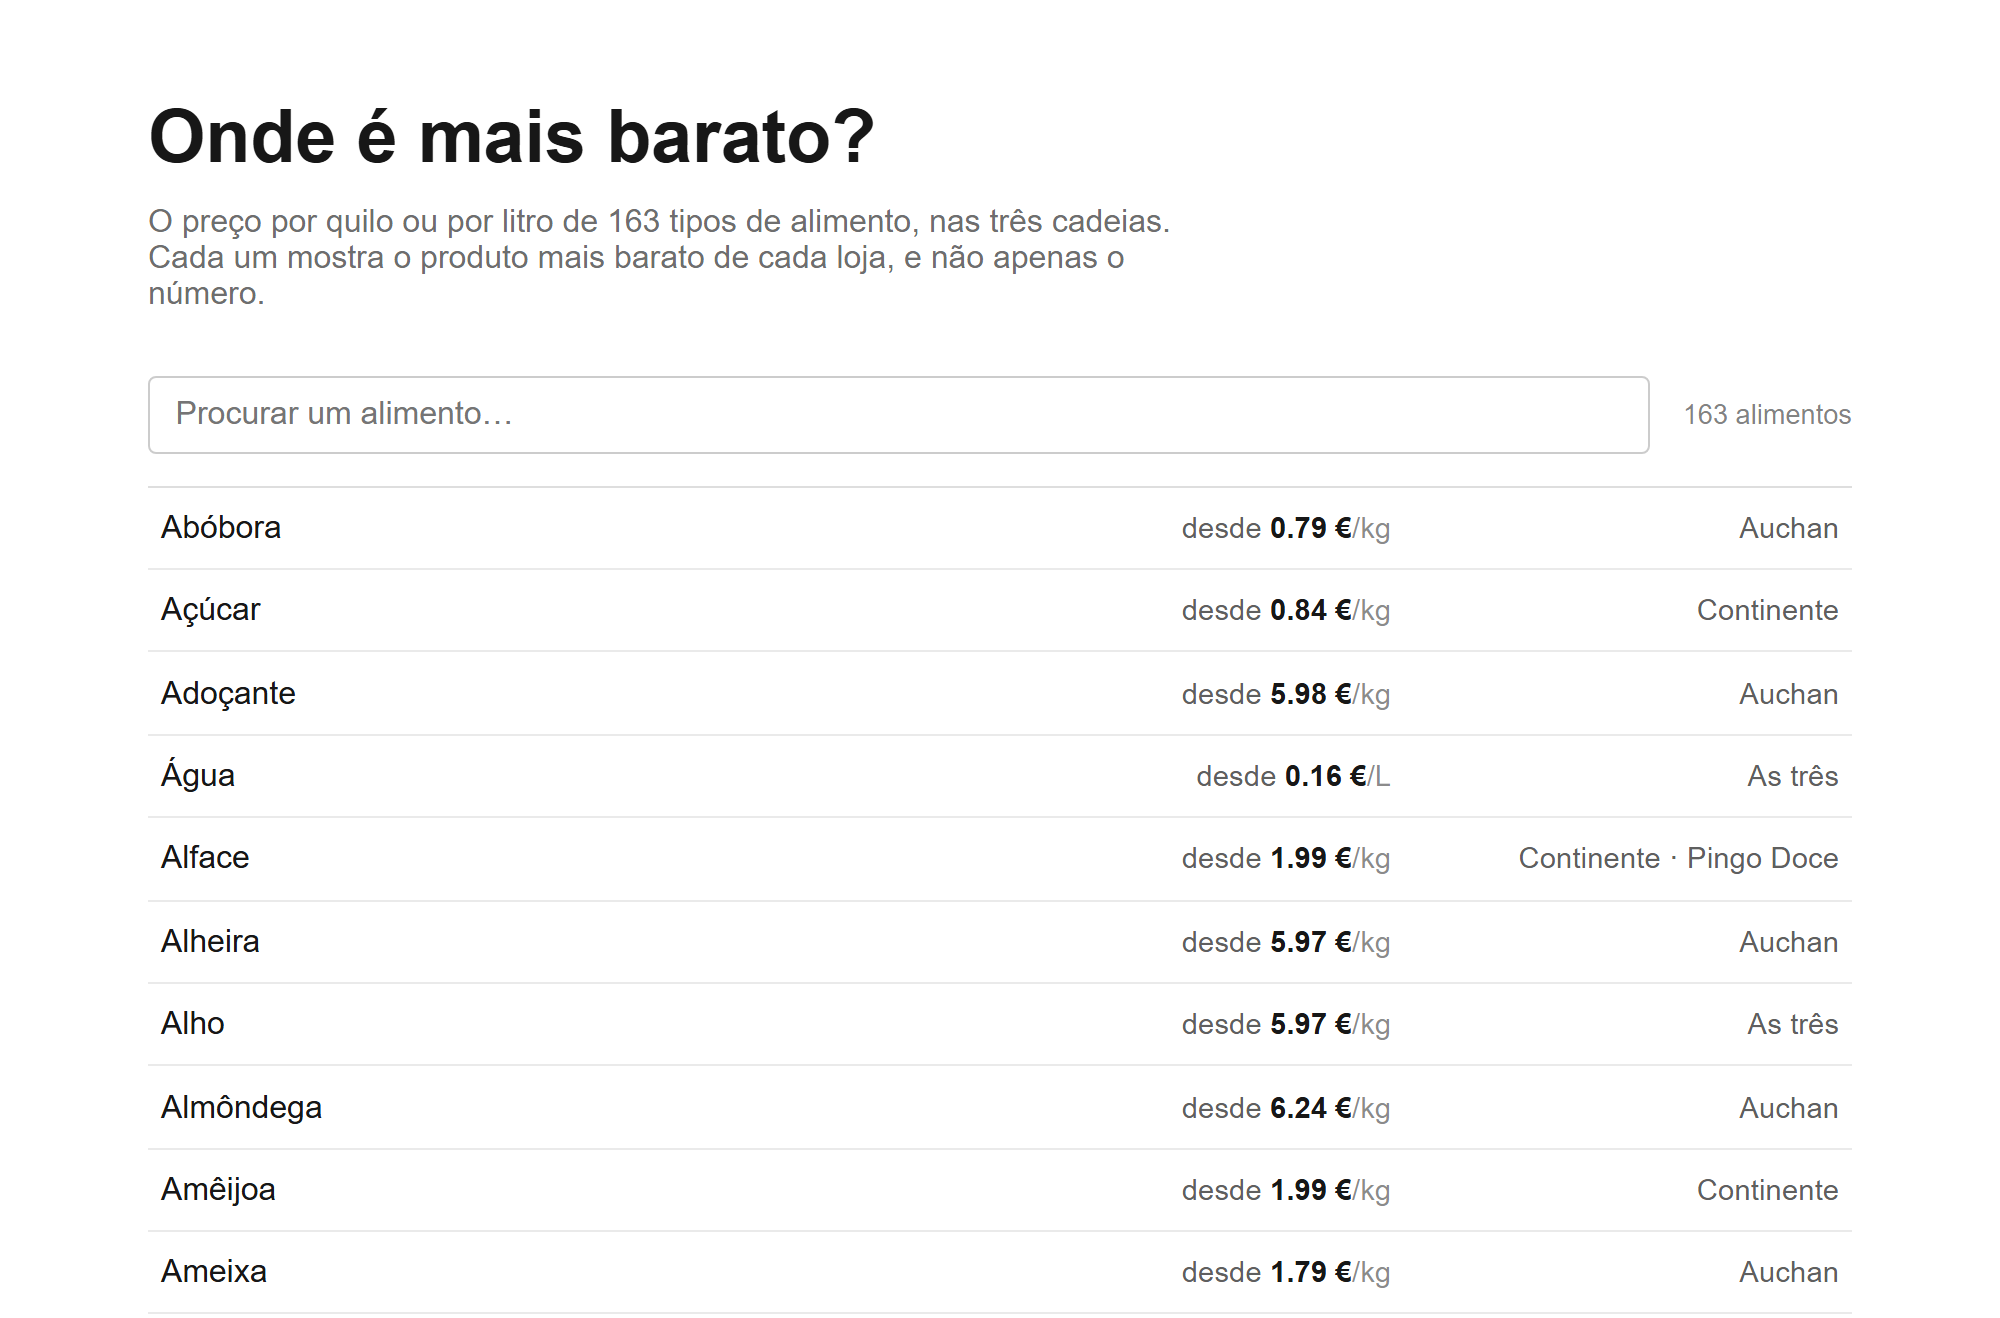
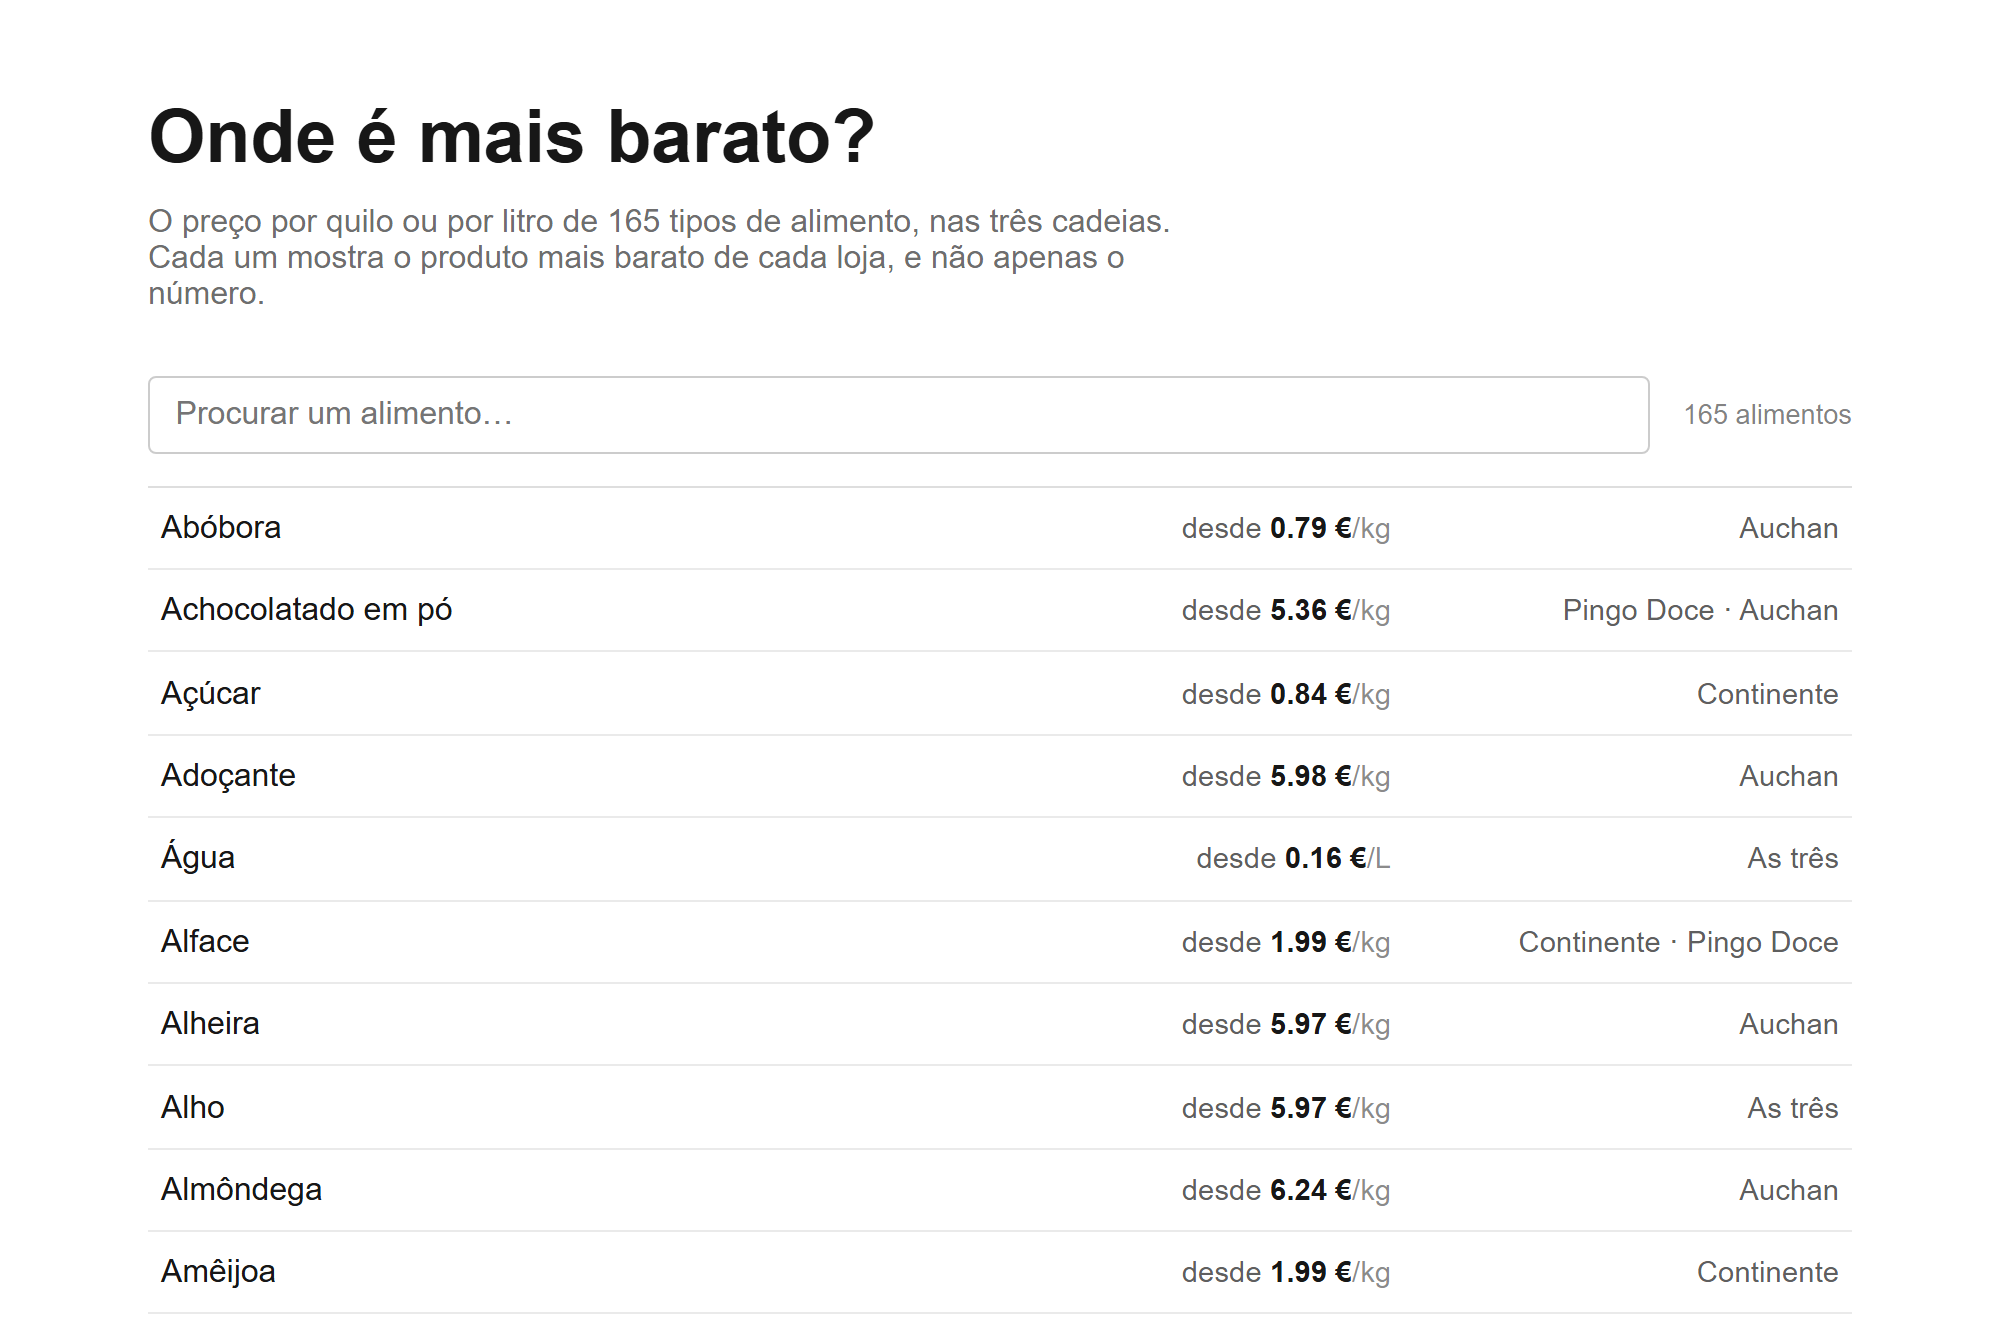
Separate chocolate powders, clean up ready meals, and stop confirming lactose-free milk as regular
- Chocolate drink powder ("achocolatado") and pure cocoa powder ("cacau em
  pó") are their own foods: about 80 powders were filed as chocolate, and
  drink powder at EUR 5.36/kg was the cheapest "chocolate". Bakery pastries
  and hot-chocolate mixes are out of chocolate too.
- Ready meals no longer include the ingredients sharing their shelf
  (cornmeal at EUR 2.01/kg was the cheapest "ready meal"), nor plain tofu,
  seitan or tempeh.
- The matcher no longer confirms a same-brand, same-size pair whose names
  differ on lactose, organic, zero, light and similar words: Continente's
  regular Mimosa milk had been confirmed as Auchan's lactose-free one. 31 of
  150 name-only pairs go to review; groups 944 to 922.
- README figures and the food-list screenshot updated.

diff --git a/data/food-types.ts b/data/food-types.ts
@@ -329,10 +329,28 @@ export const FOOD_TYPES: readonly FoodType[] = [
   // "tablete": Auchan names most chocolate bars by the format alone, as in
   // "TABLETE LINDT EXCELLENCE 70%". They used to reach chocolate only through
   // their shelf, which no longer decides when it names several foods.
+  // Powders are not chocolate bars, and listed BEFORE chocolate so they claim
+  // first: the first type in array order whose rules accept a name wins. About
+  // 120 powders were filed as chocolate, and drink powder at EUR 5.36/kg was
+  // the cheapest "chocolate". Pure cocoa and the sweetened drink powder are
+  // different products again, so each gets its own ranking. 17 October 2026.
+  //
+  // Reached ONLY through the word "chocolate" (in the name or on the shelf).
+  // Claiming "achocolatado" or "cacau" as words of their own made shelves
+  // like "chocolates-e-achocolatados" name two foods, and a two-food shelf
+  // decides nothing - 135 chocolate bars lost their food in the preview.
+  // They claim "tablete" too, for the same reason: "Tabletes de Chocolate"
+  // must name ONE set of foods, so both words need the same claimants.
+  { id: "cacau", label: "Cacau em pó", unit: "kg", heads: ["chocolate", "tablete"],
+    require: /(?=.*\bcacau\b)(?=.*\bpo\b)/i, exclude: /chocolate|achocolatad|soluvel|cobert|amendo/i },
+  { id: "achocolatado", label: "Achocolatado em pó", unit: "kg", heads: ["chocolate", "tablete"],
+    require: /achocolatad|soluvel|\bem po\b|\bpo\b|ovomaltine|fortificante|milk-mix|magic milk|granulos|nesquik|cola cao|toddy|chocolate quente/i,
+    exclude: /\btab(e)?lete\b|bombo|snack|cobert|amendo|pepita|\bbarras?\b/i },
   { id: "chocolate", label: "Chocolate", unit: "kg", heads: ["chocolate", "tablete"],
     // Sugared almonds ("tipo francês", "lisas cores") sit on the chocolate
     // shelf but are sugar-coated, not chocolate.
-    exclude: /^(?!.*(?:chocolat|cacau|choco\b)).*(?:rebucado|\bchupa|\bgoma|caramelo|torrao|nougat|marshmallow|alcacuz|tipo frances|\blisas? cores\b)/i },
+    // And a pastry from the bakery counter is not chocolate either.
+    exclude: /^(?!.*(?:chocolat|cacau|choco\b)).*(?:rebucado|\bchupa|\bgoma|caramelo|torrao|nougat|marshmallow|alcacuz|tipo frances|\blisas? cores\b)|\bsupremas?\b|nossa pastelaria/i },
   { id: "arroz", label: "Arroz", unit: "kg", heads: ["arroz"], exclude: /arroz doce/i },
   { id: "gelatina", label: "Gelatina", unit: "kg", heads: ["gelatina"] },
   { id: "farinha", label: "Farinha", unit: "kg", heads: ["farinha"] },
@@ -422,7 +440,15 @@ export const FOOD_TYPES: readonly FoodType[] = [
   { id: "gelado", label: "Gelado", unit: "l", heads: ["gelado"] },
   { id: "pizza", label: "Pizza", unit: "kg", heads: ["pizza"] },
   { id: "lasanha", label: "Lasanha", unit: "kg", heads: ["lasanha"] },
-  { id: "refeicao", label: "Refeição pronta", unit: "kg", heads: ["refeicao"] },
+  // A dish, not an ingredient that shares its shelf. Auchan's "preparados e
+  // refeições rápidas" ("mixes and quick meals") also holds cornmeal, maize,
+  // cassava, bulgur, palm hearts, cake mixes, sauerkraut and kimchi, and fubá
+  // (cornmeal) at EUR 2.01/kg was the cheapest "ready meal". Plain tofu,
+  // seitan, tempeh and riced vegetables are ingredients too - but a name that
+  // only CONTAINS one of them ("LUNCH BOWL BULGUR", "BOLONHESA SEITAN",
+  // "TOPOKKI ... KIMCHI") can still be a meal. 17 October 2026.
+  { id: "refeicao", label: "Refeição pronta", unit: "kg", heads: ["refeicao"],
+    exclude: /\b(fuba|flocao|canjic\w*|canjiquinha|xerem|sagu|farofa|mandioca|palmito|chucrute|jalapeno|tofu|tempeh|riced|veggie rice)\b|^(bulgur|seitan|kimchi)\b|trigo para kibe|preparados? (koala|duncan|mississippi)|mistura preparada|base (de pinsa|sopa)/i },
   { id: "wrap", label: "Wrap", unit: "kg", heads: ["wrap"] },
   { id: "folhado", label: "Folhado", unit: "kg", heads: ["folhado"] },
   { id: "rissol", label: "Rissol", unit: "kg", heads: ["rissoi", "rissol"] },

diff --git a/src/scripts/verify-matching.ts b/src/scripts/verify-matching.ts
@@ -1,7 +1,7 @@
 import { prisma } from "../lib/db";
 import { classifyFoodType, isFoodSection } from "../lib/food-types";
 import { buildGroups, sizeSpreadOk, OVERSIZE_FACTOR, type GroupLink, type GroupMemberInput } from "../lib/grouping";
-import { auchanTileSize, matchesTerm, parseSize, reconcileTileSize, SOLD_PER_KG, stripAccents } from "../lib/matching";
+import { auchanTileSize, matchesTerm, parseSize, qualifierMismatch, reconcileTileSize, SOLD_PER_KG, stripAccents } from "../lib/matching";
 import { enrichment } from "../scrapers/crawl/persist";
 import {
   categoryPathFromUrl,
@@ -1047,6 +1047,33 @@ function verifyFoodTypes(): number {
   check("chocolate hazelnuts are not hazelnuts",
     classifyFoodType("Avelãs Cobertas com Chocolate de Leite", "PINGO_DOCE", easter) !== "avela");
   is("Miolo de Avelã Torrada Continente", "CONTINENTE", "Frescos/Frutas/Frutos Secos, Desidratados e Sementes", "avela");
+
+  // Powders are not chocolate bars, and a two-food shelf must not appear by accident.
+  const chocShelf = "alimentação/mercearia/chocolates-e-achocolatados/achocolatados";
+  is("ACHOCOLATADO NESQUIK SACO 1KG", "AUCHAN", chocShelf, "achocolatado");
+  is("Bebida de Chocolate Solúvel Cola Cao", "CONTINENTE", "Mercearia/Café, Chá e Solúveis/Chocolate Solúvel", "achocolatado");
+  is("Cacau Magro em Pó Continente Equilíbrio", "CONTINENTE", "Mercearia/Açúcar e Sobremesas/Cacau e Chocolates de Culinária", "cacau");
+  is("PREPARADO LACASA CHOCOLATE QUENTE 350G", "AUCHAN", "alimentação/mercearia/chocolates-e-achocolatados/achocolatados", "achocolatado");
+  check("a bakery pastry is not chocolate",
+    classifyFoodType("Supremas de Chocolate Da Nossa Pastelaria", "CONTINENTE", "Mercearia/Chocolate, Gomas e Rebuçados/Chocolates") !== "chocolate");
+  is("Barrinhas de Chocolate Kinder", "PINGO_DOCE", "Bolachas, Cereais e Guloseimas/Chocolates e Guloseimas/Tabletes de Chocolate", "chocolate");
+  is("CHOCOLATE NEGRO AUCHAN 70% CACAU E COM BAIXO TEOR DE AÇÚCAR 100G", "AUCHAN",
+    "alimentação/mercearia/chocolates-e-achocolatados/tablete-de-chocolate", "chocolate");
+  // Ready meals are dishes, not the ingredients on the same shelf.
+  const quick = "alimentação/sabores-do-mundo/cozinha-brasileira/preparados-e-refeições-rápidas";
+  check("cornmeal is not a ready meal", classifyFoodType("FUBÁ MIMOSO DA TERRINHA 1KG", "AUCHAN", quick) !== "refeicao");
+  check("nor is plain tofu",
+    classifyFoodType("Tofu Natural Joya", "CONTINENTE", "Frescos/Refeições Práticas/Vegetariano") !== "refeicao");
+  is("BOLONHESA SEITAN NOBRE VEGALIA 420G", "AUCHAN",
+    "alimentação/mercearia/refeições,-sopas-e-puré/refeições-pré-preparadas", "refeicao");
+
+  // Same brand and size, different product: the matcher must not confirm these.
+  check("lactose-free milk is not regular milk",
+    qualifierMismatch("Leite UHT Meio Gordo Mimosa", "LEITE MIMOSA UHT ESPECIAL 0% LACTOSE MEIO GORDO 6X1L") === "lactose");
+  check("nor organic against regular",
+    qualifierMismatch("Massa Fusilli Rummo", "MASSA RUMMO FUSILLI BIO 500G") === "bio");
+  check("but the same words in another order are the same product",
+    qualifierMismatch("Leite UHT Meio Gordo Mimosa", "LEITE MIMOSA UHT MEIO GORDO 1L") === null);
   is("PÃES GARCIA CACETE SEM GLÚTEN 5X80G", "AUCHAN", "alimentação/padaria-e-pastelaria", "pao");
 
   check("a name ending in a weight range is sold by the kilo",

diff --git a/src/lib/matching.ts b/src/lib/matching.ts
@@ -498,6 +498,40 @@ function brandsEqual(a: string, b: string): boolean {
  * clash, or euro/unit divergence) overrides a positive rung however good the
  * name looks.
  */
+/**
+ * Words that make a different product of the same brand and size. Without a
+ * barcode, "exact" rested on brand, size and a similar name - and Continente's
+ * regular "Leite UHT Meio Gordo Mimosa" was confirmed as Auchan's "LEITE MIMOSA
+ * UHT ESPECIAL 0% LACTOSE MEIO GORDO 6X1L". Measured on 17 October 2026, 31 of
+ * the 150 such pairs differed on one of these words: organic against regular,
+ * zero against regular, light against full-fat, vegan against regular.
+ *
+ * Some of them may really be one product whose other listing leaves the word
+ * out. The names cannot say which, so they go to a person rather than being
+ * confirmed or rejected.
+ */
+const QUALIFIERS: [string, RegExp][] = [
+  ["lactose", /lactose/],
+  ["light", /\blight\b|\bmagr[oa]s?\b/],
+  ["meio gordo", /meio[ -]gord/],
+  ["gordo", /(?<!meio[ -])\bgord[oa]s?\b|\binteir[oa]\b/],
+  ["zero", /\bzero\b|\b0%/],
+  ["bio", /\bbio(logic[oa])?\b/],
+  ["sem açúcar", /sem acucar|s\/ ?acucar/],
+  ["descafeinado", /descafeinad/],
+  ["proteína", /protein/],
+  ["sem glúten", /sem gluten/],
+  ["vegan", /\bvegan|\bvegetal\b/],
+];
+
+/** The first qualifier one name has and the other lacks, or null. */
+export function qualifierMismatch(a: string, b: string): string | null {
+  const na = stripAccents(a).toLowerCase();
+  const nb = stripAccents(b).toLowerCase();
+  for (const [word, re] of QUALIFIERS) if (re.test(na) !== re.test(nb)) return word;
+  return null;
+}
+
 export function classifyCandidate(
   a: Candidate,
   b: Candidate,
@@ -573,6 +607,13 @@ export function classifyCandidate(
   }
 
   const sameBrand = brandsEqual(a.brand, b.brand);
+
+  // Same brand and size, but one name says lactose-free, organic, zero, light...
+  // and the other does not: probably a different product, so a person looks.
+  const differs = sameBrand && sizeMatches && nameSimilarity >= EXACT_NAME ? qualifierMismatch(a.name, b.name) : null;
+  if (differs) {
+    return { ...base, rung: "fuzzy", vetoed: priceVeto, reason: `names differ on "${differs}"` };
+  }
 
   // Clean same-size match: safe to auto-track.
   if (sameBrand && sizeMatches && nameSimilarity >= EXACT_NAME) {

diff --git a/README.md b/README.md
@@ -72,10 +72,10 @@ task. This project has two:
 | | |
 |---|---|
 | Products collected | **45,869**: Continente 17,223 · Pingo Doce 10,273 · Auchan 18,373 |
-| Products assigned a kind of food | **39,024** (85%) |
-| Kinds of food defined so far | **177**, from *alheira* and *farinheira* to *tremoço* and *requeijão* |
-| Kinds of food compared at all three chains so far | **163** |
-| Identical products matched across two chains | **944** |
+| Products assigned a kind of food | **38,853** (85%) |
+| Kinds of food defined so far | **179**, from *alheira* and *farinheira* to *tremoço* and *requeijão* |
+| Kinds of food compared at all three chains so far | **165** |
+| Identical products matched across two chains | **922** |
 | Figures from | the crawls of 3 and 4 October 2026 |
 
 The list of kinds of food is still being extended, and both counts grow with
@@ -238,7 +238,7 @@ stores include in their pages.
 | `src/scrapers/crawl/` | the catalogue crawler for each chain |
 | `src/scrapers/http.ts` | the shared fetcher: pace, retries, `Retry-After` |
 | `src/lib/matching.ts` | reading sizes and normalising product names |
-| `data/food-types.ts` | the 177 kinds of food |
+| `data/food-types.ts` | the 179 kinds of food |
 | `src/lib/comparison.ts` | the comparison rules, including the three cell states |
 | `src/app/grupos/` | the comparison pages (in Portuguese) |
 | `src/scrapers/crawl/*report*.ts` | the reports each crawl writes about itself |
